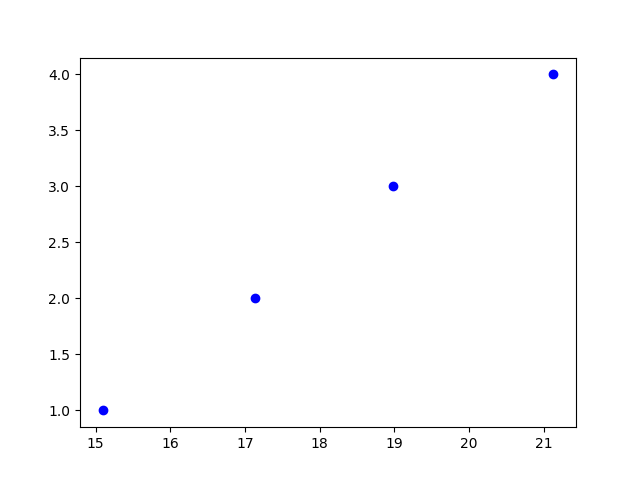
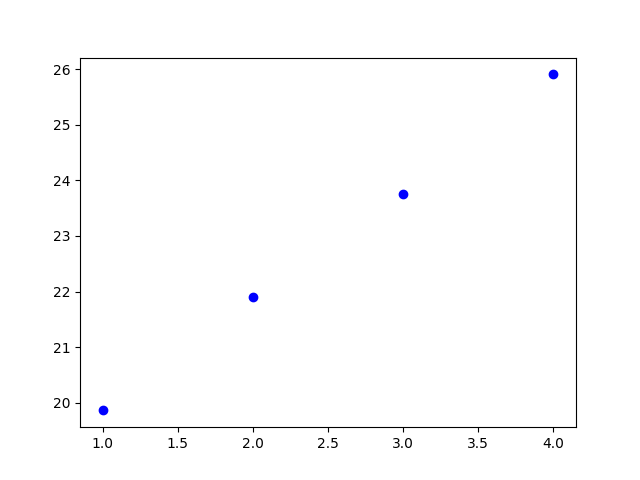
:horse: ( " <>" )

diff --git a/utilites.py b/utilites.py
@@ -3,9 +3,8 @@ import cv2
 from scipy.fftpack import dct, idct , dctn, idctn
 import matplotlib.pyplot as plt
 from math import log10
-import matplotlib.pyplot as plt
-
-
+import sys
+import os
 class Simulator:
     @staticmethod 
     def startSim(img,m,blockSize):
@@ -83,28 +82,19 @@ class OutputController:
 
     @staticmethod
     def mainController(original,compressed,decompressed,m):
-        print(f""" At m = {m}\nOriginal Matrix size is {original.shape[0]} {original.shape[1]} {original.shape[2]}\n
-Compressed Matrix size is {compressed.shape[0]} {compressed.shape[1]} {compressed.shape[2]}\n
-Decompressed Matrix size is {decompressed.shape[0]} {decompressed.shape[1]} {decompressed.shape[2]}\n
-              """)
         PSNR = OutputController.psnrCalc(original,decompressed)
-        print(f" PSNR Rate is {PSNR}")
-
-        cv2.imwrite(f"Compressed_{m}_.jpg",compressed)
-        cv2.imwrite(f"DeCompressed_{m}_.jpg",decompressed)
-
-        return PSNR
+        cv2.imwrite(f"Compressed_{m}_.png",compressed)
+        cv2.imwrite(f"DeCompressed_{m}_.png",decompressed)
+        orig = os.path.getsize("image1.png")/(1024**2)
+        comp = os.path.getsize(f"Compressed_{m}_.png")/(1024**2)
+        decomp = os.path.getsize(f"DeCompressed_{m}_.png")/(1024**2)
+        return PSNR,orig,comp,decomp
         
     
-
     def mseCalc(original,decompressed):
-        return (1/(original.shape[0] * original.shape[1]))*((original - decompressed)**2).sum()
-
-        pass
+        return (1/(original.shape[0] * original.shape[1] * original.shape[2]))*((original - decompressed)**2).sum()
     def psnrCalc(original,decompressed):
         return 10 * log10((255*255)/OutputController.mseCalc(original,decompressed))
-    
     def plotter(arr):
-        
-        plt.plot(arr, np.arange(1, 5), 'bo')
+        plt.plot( np.arange(1, 5),arr, 'bo')
         plt.savefig("PSNR_With_Time.png")

diff --git a/main.py b/main.py
@@ -1,14 +1,6 @@
-import cv2 as cv
 from utilites import Simulator,OutputController
-from scipy.fftpack import dct,idct
 import numpy as np
-import matplotlib.pyplot as plt
-from scipy.fftpack import dct,idct
 import cv2
-import sys
-import numpy
-import PIL
-from PIL import Image
 
 
 if __name__ == "__main__":
@@ -16,8 +8,17 @@ if __name__ == "__main__":
     image = cv2.imread("image1.png")
 
     psnrArr = np.zeros((4))
+    originalArr = np.zeros((4))
+    compressedArr = np.zeros((4))
+    decompressedArr = np.zeros((4))
     for i in range(1,5):
         original,compressed,decompressed = Simulator.startSim(image,i,8)
-        psnrArr[i-1] = OutputController.mainController(original,compressed,decompressed,i)
+
+        psnrArr[i-1],originalArr[i-1],compressedArr[i-1],decompressedArr[i-1]= OutputController.mainController(original,compressed,decompressed,i)
     OutputController.plotter(psnrArr)
+
+    print(originalArr)
+    print(compressedArr)
+    print(decompressedArr)
+    print(psnrArr)
 
